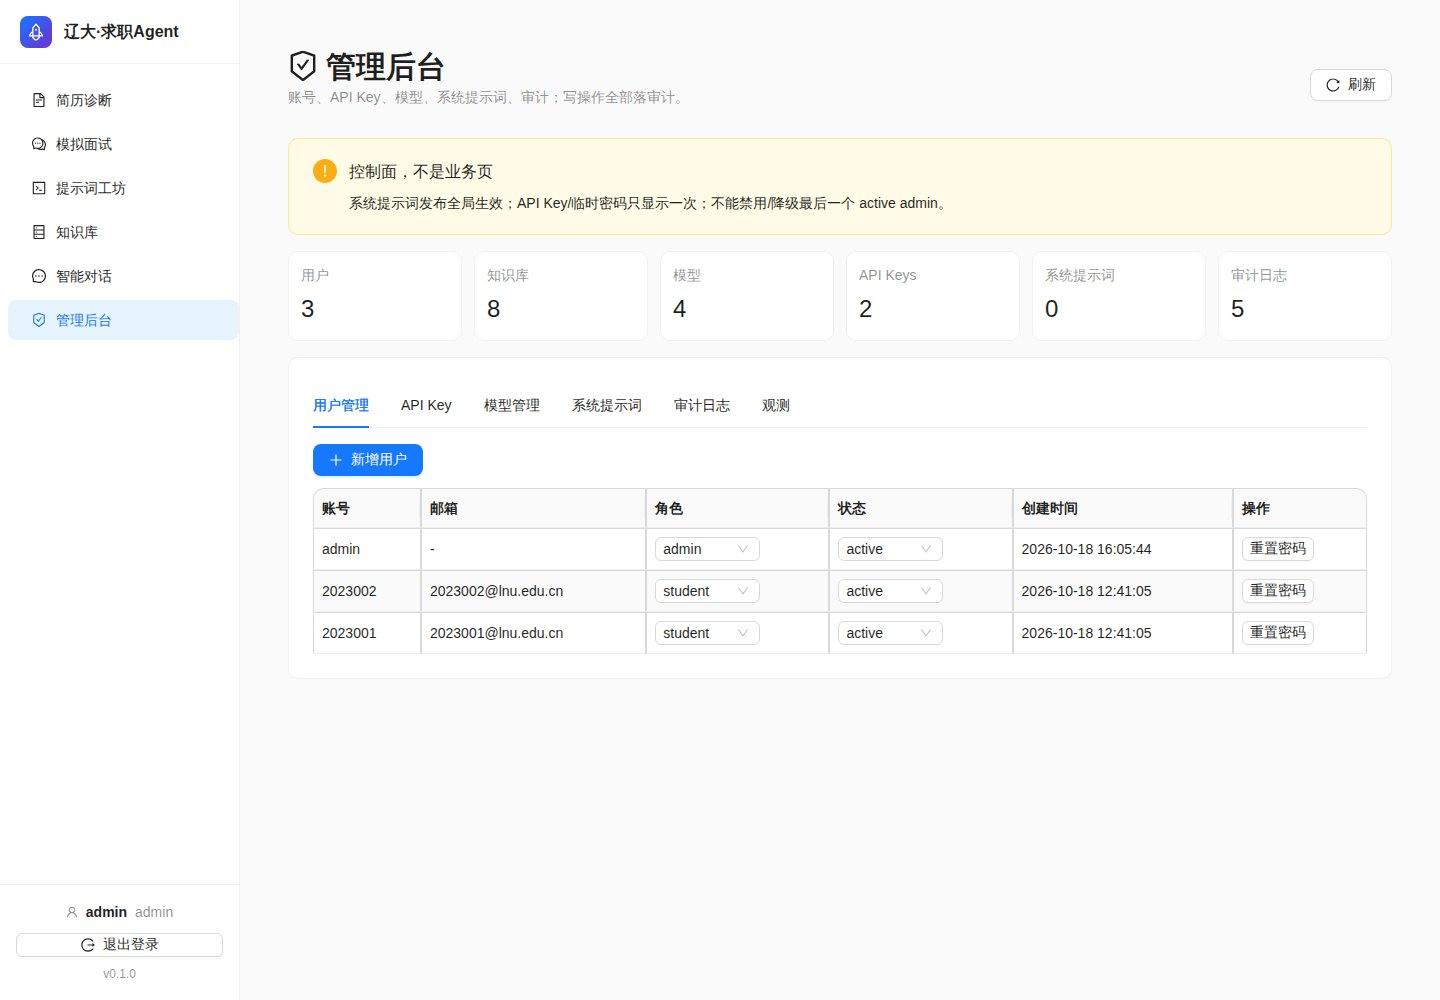
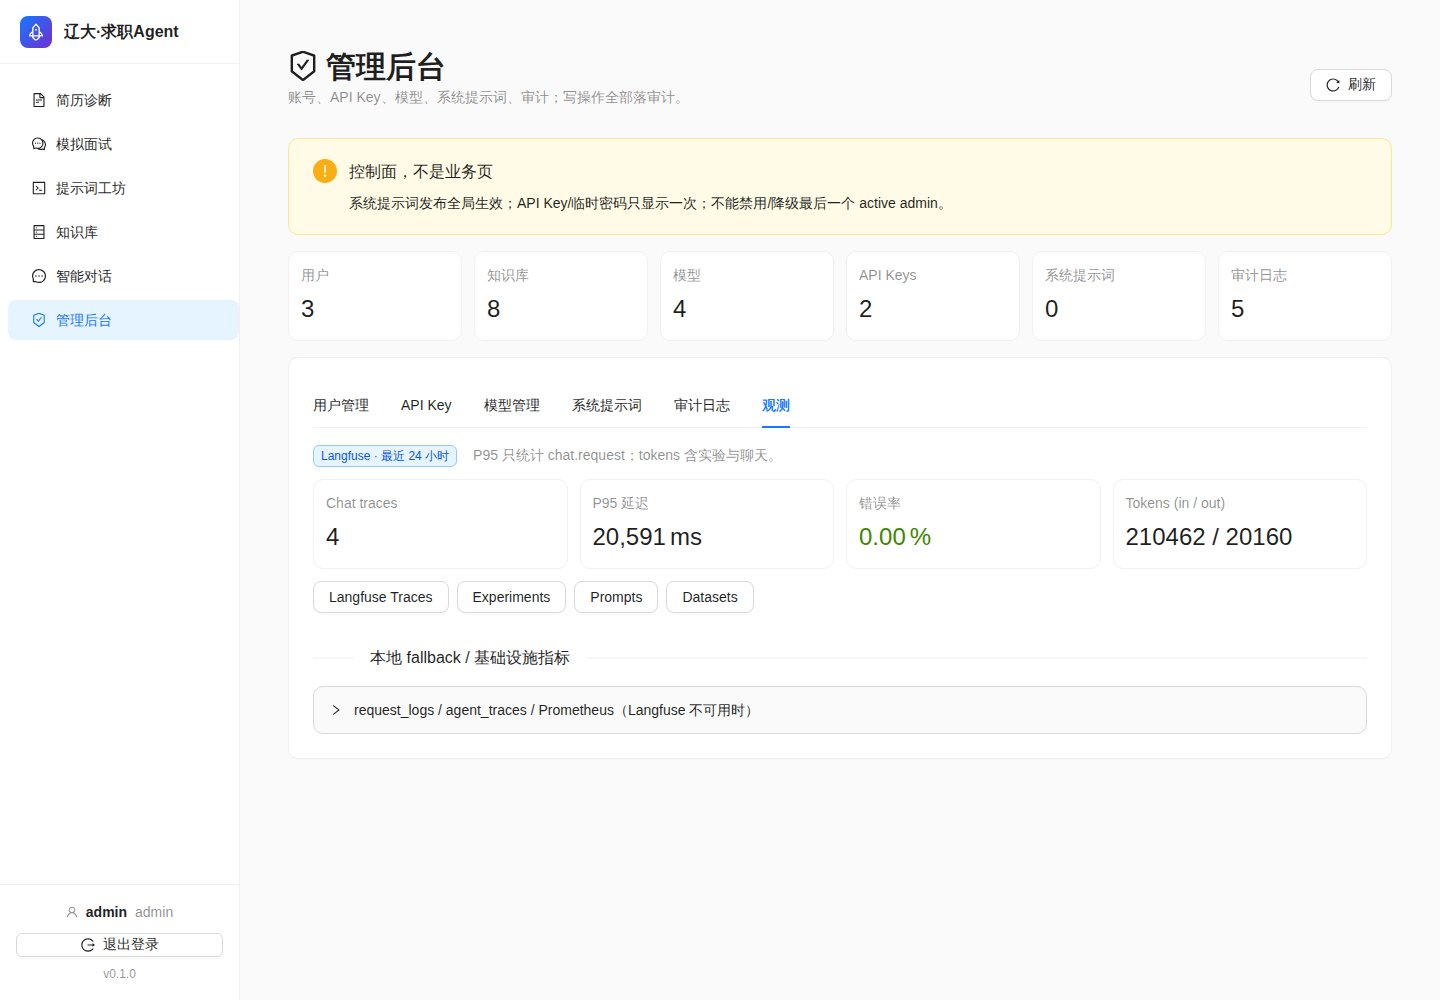
feat(admin): show Langfuse observability summary and link out

diff --git a/frontend/src/pages/Admin/index.tsx b/frontend/src/pages/Admin/index.tsx
@@ -4,7 +4,7 @@
  */
 import React, { useEffect, useState } from 'react';
 import {
-  Alert, Button, Card, Col, Form, Input, InputNumber, Modal, Popconfirm,
+  Alert, Button, Card, Col, Collapse, Divider, Form, Input, InputNumber, Modal, Popconfirm,
   Row, Select, Space, Statistic, Switch, Table, Tabs, Tag, Typography, message,
 } from 'antd';
 import { PlusOutlined, ReloadOutlined, SafetyCertificateOutlined } from '@ant-design/icons';
@@ -26,6 +26,7 @@ const Admin: React.FC = () => {
   const [prompts, setPrompts] = useState<any[]>([]);
   const [audits, setAudits] = useState<any[]>([]);
   const [obs, setObs] = useState<any>({});
+  const [lfSummary, setLfSummary] = useState<any>({ enabled: false });
   const [requestLogs, setRequestLogs] = useState<any[]>([]);
   const [traces, setTraces] = useState<any[]>([]);
   const [loading, setLoading] = useState(false);
@@ -51,7 +52,7 @@ const Admin: React.FC = () => {
   const load = async () => {
     setLoading(true);
     try {
-      const [o, u, k, m, p, a, s, rl, tr] = await Promise.all([
+      const [o, u, k, m, p, a, s, rl, tr, lf] = await Promise.all([
         api.getAdminOverview(),
         api.getAdminUsers({ page: 1, page_size: 100 }),
         api.getAdminApiKeys({ page: 1, page_size: 100 }),
@@ -61,10 +62,12 @@ const Admin: React.FC = () => {
         api.getAdminObservabilitySummary(),
         api.getAdminRequestLogs({ page: 1, page_size: 50 }),
         api.getAdminTraces({ page: 1, page_size: 50 }),
+        api.getAdminLangfuseSummary().catch(() => ({ enabled: false })),
       ]);
       setOverview(o || {}); setUsers(u?.items || []); setKeys(k?.items || []);
       setModels(m?.items || []); setPrompts(p?.items || []); setAudits(a?.items || []);
       setObs(s || {}); setRequestLogs(rl?.items || []); setTraces(tr?.items || []);
+      setLfSummary(lf || { enabled: false });
     } finally { setLoading(false); }
   };
   useEffect(() => { load(); }, []);
@@ -259,20 +262,69 @@ const Admin: React.FC = () => {
           { key: 'audit', label: '审计日志', children: <Table rowKey="id" size="small" columns={auditCols} dataSource={audits} pagination={false} /> },
           { key: 'observability', label: '观测', children: (
             <div>
-              <Row gutter={12} style={{ marginBottom: 12 }}>
-                <Col span={6}><Card size="small"><Statistic title="请求总数" value={Number(obs.total_requests || 0)} /></Card></Col>
-                <Col span={6}><Card size="small"><Statistic title="错误数" value={Number(obs.error_requests || 0)} valueStyle={{ color: '#cf1322' }} /></Card></Col>
-                <Col span={6}><Card size="small"><Statistic title="错误率" value={Number((obs.error_rate || 0) * 100).toFixed(2)} suffix="%" /></Card></Col>
-                <Col span={6}><Card size="small"><Statistic title="平均耗时" value={Number(obs.avg_latency_ms || 0).toFixed(1)} suffix="ms" /></Card></Col>
-              </Row>
-              <Space style={{ marginBottom: 12 }}>
-                <Button onClick={() => window.open('http://127.0.0.1:8000/metrics', '_blank')}>打开 /metrics</Button>
-                <Text type="secondary">Prometheus 文本指标；请求日志不含 query/response 正文。</Text>
-              </Space>
-              <Table rowKey="id" size="small" columns={requestCols} dataSource={requestLogs} pagination={false} />
-              <Title level={5} style={{ marginTop: 16 }}>Agent Trace（query/answer 预览，仅 admin）</Title>
-              <Text type="secondary">trace_id 由 /chat/completions 生成，记录 TTFT、总耗时、引用、工具步骤与错误。</Text>
-              <Table rowKey="trace_id" size="small" columns={traceCols} dataSource={traces} pagination={false} style={{ marginTop: 8 }} />
+              {lfSummary?.enabled !== true ? (
+                <Alert
+                  type="info"
+                  showIcon
+                  style={{ marginBottom: 12 }}
+                  message="Langfuse 未配置"
+                  description="设置 LANGFUSE_PUBLIC_KEY / LANGFUSE_SECRET_KEY 后，这里显示 Agent/RAG trace 摘要；详细 trace、dataset、experiment、prompt 都在 Langfuse UI 查看。"
+                />
+              ) : lfSummary?.available === false ? (
+                <Alert
+                  type="warning"
+                  showIcon
+                  style={{ marginBottom: 12 }}
+                  message="Langfuse 暂时不可用"
+                  description={`错误类型：${lfSummary?.error || 'unknown'}；下方本地 fallback 仍可用。`}
+                />
+              ) : (
+                <>
+                  <Space style={{ marginBottom: 12 }} wrap>
+                    <Tag color="blue">Langfuse · 最近 {lfSummary?.hours || 24} 小时</Tag>
+                    {lfSummary?.truncated && <Tag color="orange">结果已截断（≥1000 observations）</Tag>}
+                    <Text type="secondary">P95 只统计 chat.request；tokens 含实验与聊天。</Text>
+                  </Space>
+                  <Row gutter={12} style={{ marginBottom: 12 }}>
+                    <Col span={6}><Card size="small"><Statistic title="Chat traces" value={Number(lfSummary?.trace_count || 0)} /></Card></Col>
+                    <Col span={6}><Card size="small"><Statistic title="P95 延迟" value={lfSummary?.p95_latency_ms ?? '-'} suffix="ms" /></Card></Col>
+                    <Col span={6}><Card size="small"><Statistic title="错误率" value={Number((lfSummary?.error_rate || 0) * 100).toFixed(2)} suffix="%" valueStyle={{ color: (lfSummary?.error_rate || 0) > 0 ? '#cf1322' : '#3f8600' }} /></Card></Col>
+                    <Col span={6}><Card size="small"><Statistic title="Tokens (in / out)" value={`${lfSummary?.tokens_input || 0} / ${lfSummary?.tokens_output || 0}`} /></Card></Col>
+                  </Row>
+                  <Space style={{ marginBottom: 16 }} wrap>
+                    {lfSummary?.links?.traces && <Button onClick={() => window.open(lfSummary.links.traces, '_blank')}>Langfuse Traces</Button>}
+                    {lfSummary?.links?.experiments && <Button onClick={() => window.open(lfSummary.links.experiments, '_blank')}>Experiments</Button>}
+                    {lfSummary?.links?.prompts && <Button onClick={() => window.open(lfSummary.links.prompts, '_blank')}>Prompts</Button>}
+                    {lfSummary?.links?.datasets && <Button onClick={() => window.open(lfSummary.links.datasets, '_blank')}>Datasets</Button>}
+                  </Space>
+                </>
+              )}
+
+              <Divider orientation="left">本地 fallback / 基础设施指标</Divider>
+              <Collapse
+                items={[{
+                  key: 'local-fallback',
+                  label: 'request_logs / agent_traces / Prometheus（Langfuse 不可用时）',
+                  children: (
+                    <div>
+                      <Row gutter={12} style={{ marginBottom: 12 }}>
+                        <Col span={6}><Card size="small"><Statistic title="请求总数" value={Number(obs.total_requests || 0)} /></Card></Col>
+                        <Col span={6}><Card size="small"><Statistic title="错误数" value={Number(obs.error_requests || 0)} valueStyle={{ color: '#cf1322' }} /></Card></Col>
+                        <Col span={6}><Card size="small"><Statistic title="错误率" value={Number((obs.error_rate || 0) * 100).toFixed(2)} suffix="%" /></Card></Col>
+                        <Col span={6}><Card size="small"><Statistic title="平均耗时" value={Number(obs.avg_latency_ms || 0).toFixed(1)} suffix="ms" /></Card></Col>
+                      </Row>
+                      <Space style={{ marginBottom: 12 }}>
+                        <Button onClick={() => window.open('http://127.0.0.1:8000/metrics', '_blank')}>打开 /metrics</Button>
+                        <Text type="secondary">Prometheus 文本指标；请求日志不含 query/response 正文。</Text>
+                      </Space>
+                      <Table rowKey="id" size="small" columns={requestCols} dataSource={requestLogs} pagination={false} />
+                      <Title level={5} style={{ marginTop: 16 }}>Agent Trace（query/answer 预览，仅 admin）</Title>
+                      <Text type="secondary">trace_id 由 /chat/completions 生成，记录 TTFT、总耗时、引用、工具步骤与错误。</Text>
+                      <Table rowKey="trace_id" size="small" columns={traceCols} dataSource={traces} pagination={false} style={{ marginTop: 8 }} />
+                    </div>
+                  ),
+                }]}
+              />
             </div>
           ) },
         ]} />

diff --git a/frontend/src/services/admin.ts b/frontend/src/services/admin.ts
@@ -58,6 +58,9 @@ export const getAdminRequestLogs = (params?: Record<string, any>): Promise<any> 
 export const getAdminObservabilitySummary = (): Promise<any> =>
   request.get('/admin/observability/summary');
 
+export const getAdminLangfuseSummary = (hours = 24): Promise<any> =>
+  request.get('/admin/observability/langfuse-summary', { params: { hours } });
+
 export const getAdminAuditLogs = (params?: Record<string, any>): Promise<any> =>
   request.get('/admin/audit-logs', { params });
 

diff --git a/backend/app/api/admin.py b/backend/app/api/admin.py
@@ -11,13 +11,16 @@ import time
 from datetime import datetime, timedelta, timezone
 from typing import Any, Dict, List, Optional
 
+import httpx
 from fastapi import APIRouter, Depends, HTTPException, Query, status
 from pydantic import BaseModel, Field
 from sqlmodel import Session, func, select
 
+from app.core.config import get_settings
 from app.core.database import get_session
 from app.core.deps import get_current_admin
 from app.core.security import hash_password
+from app.core.tracing import tracer
 from app.models import AgentTrace, ApiKey, AuditLog, CustomModel, KnowledgeBase, ModelType, RequestLog, SystemPrompt, User
 from app.services.audit_service import record_audit
 from app.services.prompt_service import prompt_workshop_service
@@ -29,6 +32,11 @@ router = APIRouter(
     tags=["Admin"],
     dependencies=[Depends(get_current_admin)],
 )
+settings = get_settings()
+
+# Langfuse 摘要按小时窗口缓存，避免 Admin 页面刷新打爆公开 API 限流
+_LF_SUMMARY_CACHE: Dict[str, Any] = {"at": 0.0, "hours": None, "data": None}
+_LF_SUMMARY_TTL = 60.0
 
 VALID_ROLES = {"student", "admin"}
 VALID_STATUS = {"active", "disabled"}
@@ -651,6 +659,92 @@ async def observability_summary(
         "trace_count": int(session.exec(select(func.count()).select_from(AgentTrace)).one()),
         "metrics_endpoint": "/metrics",
     }
+
+
+async def _fetch_langfuse_summary(hours: int) -> Dict[str, Any]:
+    """聚合 Langfuse 最近 N 小时的 trace / latency / error / token。"""
+    now = datetime.now(timezone.utc)
+    params = {
+        "fromStartTime": (now - timedelta(hours=hours)).isoformat(),
+        "toStartTime": now.isoformat(),
+        "fields": "core,basic,model,usage,metadata",
+        "limit": 1000,
+    }
+    async with httpx.AsyncClient(timeout=10.0, trust_env=True) as client:
+        response = await client.get(
+            f"{settings.LANGFUSE_HOST.rstrip('/')}/api/public/v2/observations",
+            params=params,
+            auth=(settings.LANGFUSE_PUBLIC_KEY, settings.LANGFUSE_SECRET_KEY),
+        )
+        response.raise_for_status()
+        rows = response.json().get("data", [])
+
+    roots = [row for row in rows if not row.get("parentObservationId")]
+    chat_roots = [row for row in roots if row.get("name") == "chat.request"]
+    experiment_roots = [row for row in roots if row.get("name") == "experiment-item-run"]
+    generations = [row for row in rows if row.get("type") == "GENERATION"]
+
+    latencies = sorted(
+        float(row["latency"]) for row in chat_roots if row.get("latency") is not None
+    )
+    p95 = latencies[max(0, int(len(latencies) * 0.95) - 1)] if latencies else None
+
+    input_tokens = output_tokens = 0
+    for row in generations:
+        usage = row.get("usageDetails") or row.get("usage") or {}
+        input_tokens += int(usage.get("input") or usage.get("inputUsage") or 0)
+        output_tokens += int(usage.get("output") or usage.get("outputUsage") or 0)
+
+    errors = [row for row in chat_roots if row.get("level") == "ERROR"]
+    project_id = next((row.get("projectId") for row in rows if row.get("projectId")), None)
+    host = settings.LANGFUSE_HOST.rstrip("/")
+    links = {}
+    if project_id:
+        links = {
+            "traces": f"{host}/project/{project_id}/traces",
+            "experiments": f"{host}/project/{project_id}/experiments",
+            "prompts": f"{host}/project/{project_id}/prompts",
+            "datasets": f"{host}/project/{project_id}/datasets",
+        }
+
+    return {
+        "hours": hours,
+        "trace_count": len({row.get("traceId") for row in chat_roots}),
+        "experiment_items": len({row.get("traceId") for row in experiment_roots}),
+        "error_count": len(errors),
+        "error_rate": round(len(errors) / len(chat_roots), 4) if chat_roots else 0.0,
+        "p95_latency_ms": round(p95 * 1000, 2) if p95 is not None else None,
+        "tokens_input": input_tokens,
+        "tokens_output": output_tokens,
+        "truncated": len(rows) >= 1000,
+        "links": links,
+    }
+
+
+@router.get("/observability/langfuse-summary")
+async def langfuse_observability_summary(
+    hours: int = Query(default=24, ge=1, le=168),
+    admin: User = Depends(get_current_admin),
+):
+    """Admin 只展示 Langfuse 聚合摘要；详细 trace 走 Langfuse UI。"""
+    if not tracer.enabled:
+        return {"enabled": False, "message": "Langfuse 未配置；设置 LANGFUSE_PUBLIC_KEY/SECRET_KEY 后启用"}
+
+    now = time.monotonic()
+    if (
+        _LF_SUMMARY_CACHE["data"] is not None
+        and _LF_SUMMARY_CACHE["hours"] == hours
+        and now - _LF_SUMMARY_CACHE["at"] < _LF_SUMMARY_TTL
+    ):
+        return {"enabled": True, "available": True, **_LF_SUMMARY_CACHE["data"]}
+
+    try:
+        data = await _fetch_langfuse_summary(hours)
+    except Exception as exc:
+        return {"enabled": True, "available": False, "error": type(exc).__name__}
+
+    _LF_SUMMARY_CACHE.update({"at": now, "hours": hours, "data": data})
+    return {"enabled": True, "available": True, **data}
 
 
 # ==================== 审计 ====================

diff --git a/backend/tests/test_admin_api.py b/backend/tests/test_admin_api.py
@@ -62,6 +62,22 @@ def test_student_forbidden_admin_forbidden(client, data):
     assert client.get("/api/v1/admin/overview", headers=_h(data["admin_token"])).status_code == 200
 
 
+def test_langfuse_summary_is_admin_only_and_noop_when_disabled(client, data):
+    assert client.get(
+        "/api/v1/admin/observability/langfuse-summary",
+        headers=_h(data["student_token"]),
+    ).status_code == 403
+
+    response = client.get(
+        "/api/v1/admin/observability/langfuse-summary",
+        headers=_h(data["admin_token"]),
+    )
+    assert response.status_code == 200
+    body = response.json()
+    assert body["enabled"] is False
+    assert "Langfuse" in body["message"]
+
+
 def test_admin_create_user(client, data):
     sid = f"created_{uuid.uuid4().hex[:6]}"
     resp = client.post(

diff --git a/README.md b/README.md
@@ -113,7 +113,7 @@ Hybrid RAG 问答，展示 Agent 步骤、召回详情与 citations。
 
 ### 管理后台
 
-用户、API Key、模型、系统提示词、审计日志与观测。
+业务控制面（用户、API Key、模型、系统提示词、审计日志）+ Langfuse 观测摘要（traces、P95、错误率、tokens、实验入口）；详细 trace 在 Langfuse UI 查看。
 
 ![管理后台](docs/assets/admin.jpg)
 
@@ -269,7 +269,7 @@ curl http://127.0.0.1:8000/ready
 | 真实简历检索 | 42 条 golden、54 chunks | vector `evidence_all@3 = 92.31%`，`RR@3 = 0.7094` |
 | 模拟面试 grounding | 10 条真实简历 × 岗位 | **10/10** 通过 |
 | 求职匹配 / 反欺诈 | `career_demo_v1` 5 条合成简历 | 4 个 evaluator 均 **1.000** |
-| 后端测试 | 126 条 | **126 passed**（CI 121 passed + 5 skipped） |
+| 后端测试 | 127 条 | **127 passed**（CI 122 passed + 5 skipped） |
 
 > `evidence_all@3` 是检索命中，不是回答准确率；延迟是单条样本，不是 P95。  
 > Hybrid 没有稳定超过纯向量：BM25 更快、向量更准，hybrid 作为可调策略保留。
@@ -291,6 +291,31 @@ python backend/benchmark/langfuse_agent_dataset.py --run-experiment
 - Dataset / Experiment：`career_demo_v1` / `career_quality_baseline`；
 - Prompt：`agent.intent` / `agent.system` / `agent.grading` / `agent.answer` / `agent.chat`；
 - 未配置 key 时自动 no-op，本地 `agent_traces` 继续工作。
+
+### Admin 与 Langfuse 的分工
+
+| 能力 | Admin | Langfuse |
+| :--- | :--- | :--- |
+| 用户 / API Key / 模型 / 审计 | ✅ 业务控制面 | ❌ |
+| trace / span / tool / retrieval / LLM 延迟 | 24h 摘要 | ✅ 详情与过滤 |
+| P95 / 错误率 / tokens | 摘要卡片 | ✅ 按 trace/实验对比 |
+| Dataset / Experiment / Score | 跳转入口 | ✅ 数据集与实验 |
+| Prompt 版本 / 回滚 | 用户级覆盖 | ✅ 全局版本与 label |
+| RAG Hit@K / MRR / citation | 自研 evaluator 计算 | 展示 score，不原生计算 |
+
+Admin 的“观测”tab 调用：
+
+```text
+GET /api/v1/admin/observability/langfuse-summary?hours=24
+```
+
+后端用 Langfuse Basic Auth 聚合最近 24h 的 observations（60s 缓存），前端只拿摘要，不暴露 key；详细分析直接跳转 Langfuse Traces / Experiments / Prompts / Datasets。
+
+### 前后端边界
+
+- React SPA 通过 REST/SSE 调 FastAPI，CORS 使用白名单；
+- Admin 是独立前端路由，业务 API 在 `/api/v1/admin/*`；
+- 可观测详情在 Langfuse，Admin 只保留业务控制面和摘要/跳转，不重复造第二个评测 UI。
 
 ### Golden 体检
 
@@ -326,7 +351,7 @@ backend/app/
 ├── tasks/                   Celery（可选）
 ├── benchmark/               42/10/10 golden、标准指标、Langfuse dataset/experiment
 ├── alembic/                 baseline migration
-└── tests/                   126 条测试
+└── tests/                   127 条测试
 
 frontend/src/
 ├── pages/CareerCenter/      简历诊断 / 模拟面试 / 提示词工坊

diff --git a/docs/PROJECT_STATUS_REPORT.md b/docs/PROJECT_STATUS_REPORT.md
@@ -152,7 +152,7 @@ FastAPI (8000)
 - 模拟面试 grounding：**10/10**；
 - Agent 模式（10 条 SRE 问题，通用 smoke，不是求职域主评测）：**10/10** 关键词命中 + citations 非空 + 无 tool_error；
 - 上传 → 解析 → 向量化 → 提问 → 引用：**PASS**；
-- 后端：**126 passed**（新增 34 条 golden/标准指标/tracing/Langfuse/prompt/安全/匹配封顶测试）；
+- 后端：**127 passed**（新增 35 条 golden/标准指标/tracing/Langfuse/prompt/安全/匹配封顶测试）；
 - 前端：`npm run build` 通过（约 9.4s）。
 
 ### 4.5 延迟
@@ -164,7 +164,7 @@ FastAPI (8000)
 
 ## 5. 测试与质量
 
-- 25 个测试文件，126 条测试；
+- 25 个测试文件，127 条测试；
 - 覆盖：auth/隔离、KB/owner、admin、trace、Agent workflow、工具治理、检索/rerank/缓存、BM25、记忆、prompt、golden eval、chat SSE；
 - 前端构建通过；
 - 未覆盖/薄弱：
@@ -192,7 +192,7 @@ FastAPI (8000)
 - **实测**：`chat:read` key 访问 KB list → 403；`kb:read` key → 200；`/ready` 返回 `postgres/redis/llm=ok`；CORS 未知 Origin → 400；
 - **CI**：`.github/workflows/ci.yml`，后端用 pgvector + Redis service 跑 pytest，前端跑 `npm ci && npm run build`；
 - **Docker**：`docker-compose.yml` + `backend/Dockerfile` + `frontend/Dockerfile`，见 §6.7；
-- 测试：**126 passed**。
+- 测试：**127 passed**。
 
 ## 6. 运行手册
 
@@ -426,7 +426,7 @@ LANGFUSE_HOST=https://cloud.langfuse.com
 TRACE_CONTENT_MODE=redacted   # metadata | redacted | full
 ```
 
-验收前状态：没有 key 时 `tracer.enabled=false`，所有 span 为 no-op，聊天和 126 条测试照常通过；本地 `agent_traces` 继续写。
+验收前状态：没有 key 时 `tracer.enabled=false`，所有 span 为 no-op，聊天和 127 条测试照常通过；本地 `agent_traces` 继续写。
 
 **Datasets / Experiments（2026-10-19，Cloud Hobby）**
 
@@ -520,7 +520,7 @@ curl -s http://127.0.0.1:8000/ready   # PG / Redis / LLM 依赖状态
 ```bash
 git log --oneline -8
 git status --short
-python3 -m pytest tests -q          # 126 passed
+python3 -m pytest tests -q          # 127 passed
 npm run build                       # 通过
 curl http://127.0.0.1:8000/health    # {"status":"ok"}
 curl http://127.0.0.1:8000/ready     # {"status":"ok","checks":{...}}

diff --git a/docs/PROJECT_ONE_PAGER.md b/docs/PROJECT_ONE_PAGER.md
@@ -66,7 +66,7 @@ PostgreSQL + pgvector / Redis / DeepSeek / SiliconFlow
 - 10 条面试 grounding：10/10 通过
 - 5 条求职域合成用例（`career_demo_v1`）：匹配 + 反欺诈 4 个 evaluator 均为 1.0
 - 跨领域简历匹配修复：硬技能覆盖率 <34% 时封顶 LOW，避免“学前教育简历 vs Agent 岗”被抬到 MODERATE
-- 后端测试：126 passed
+- 后端测试：127 passed
 - 延迟：单条样本，**不是 P95**
 
 ## 5. 生产化与安全
